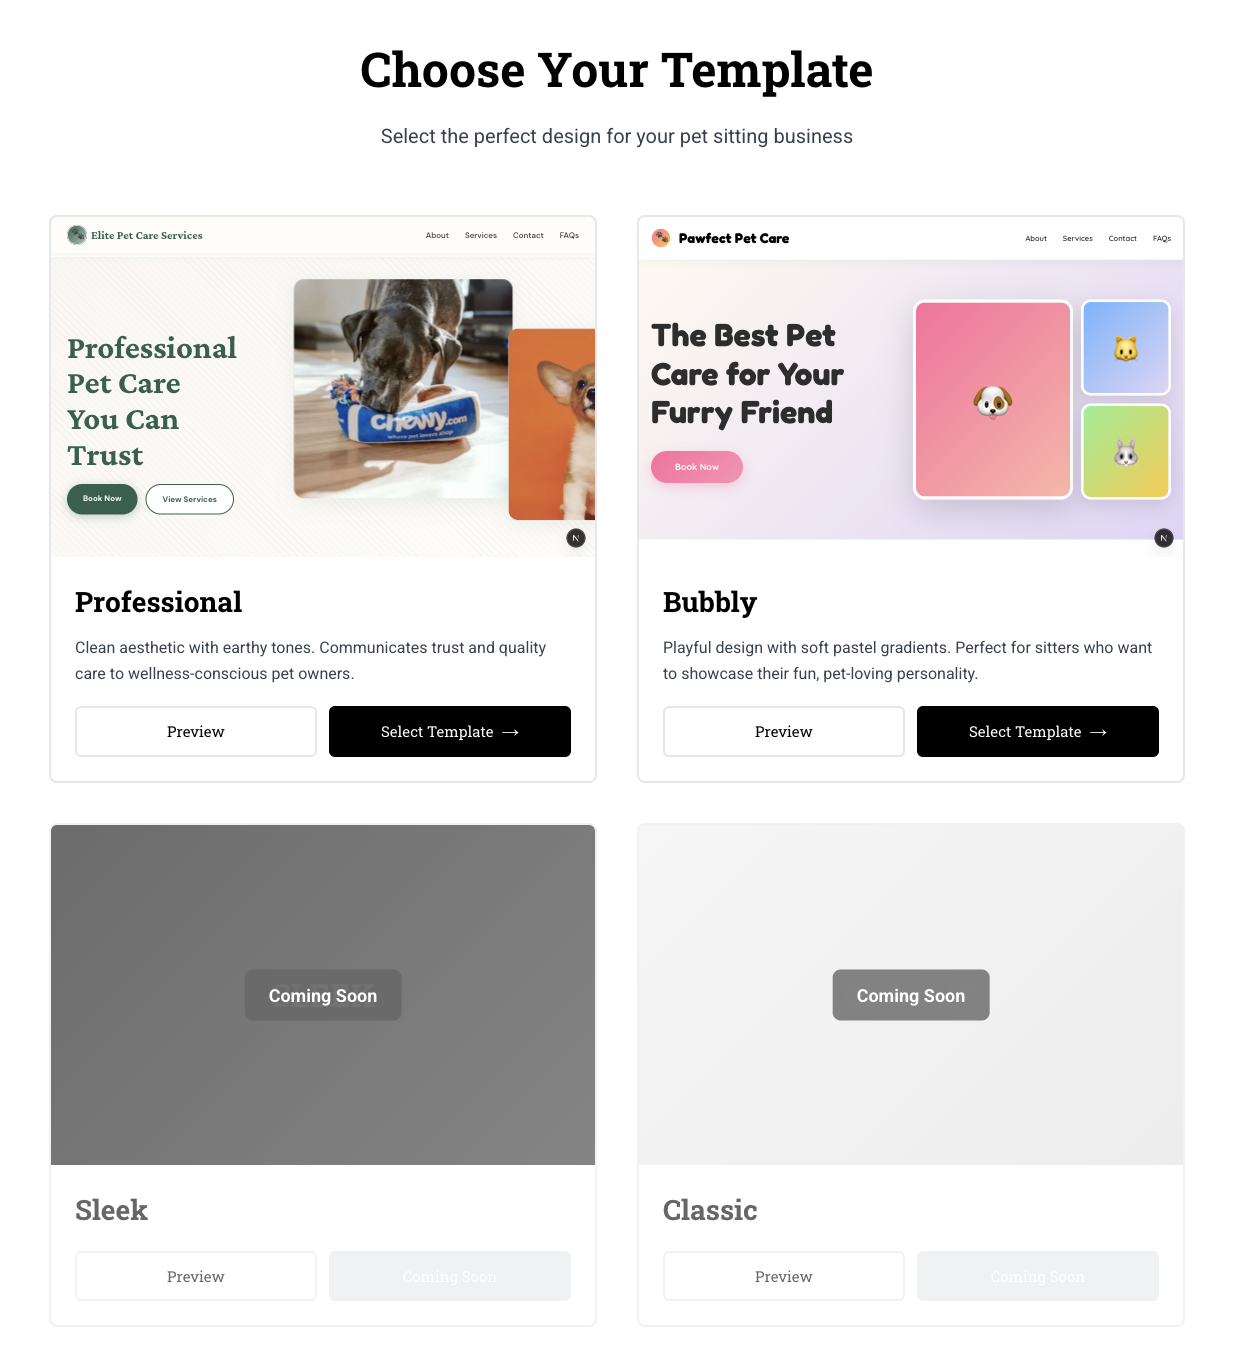
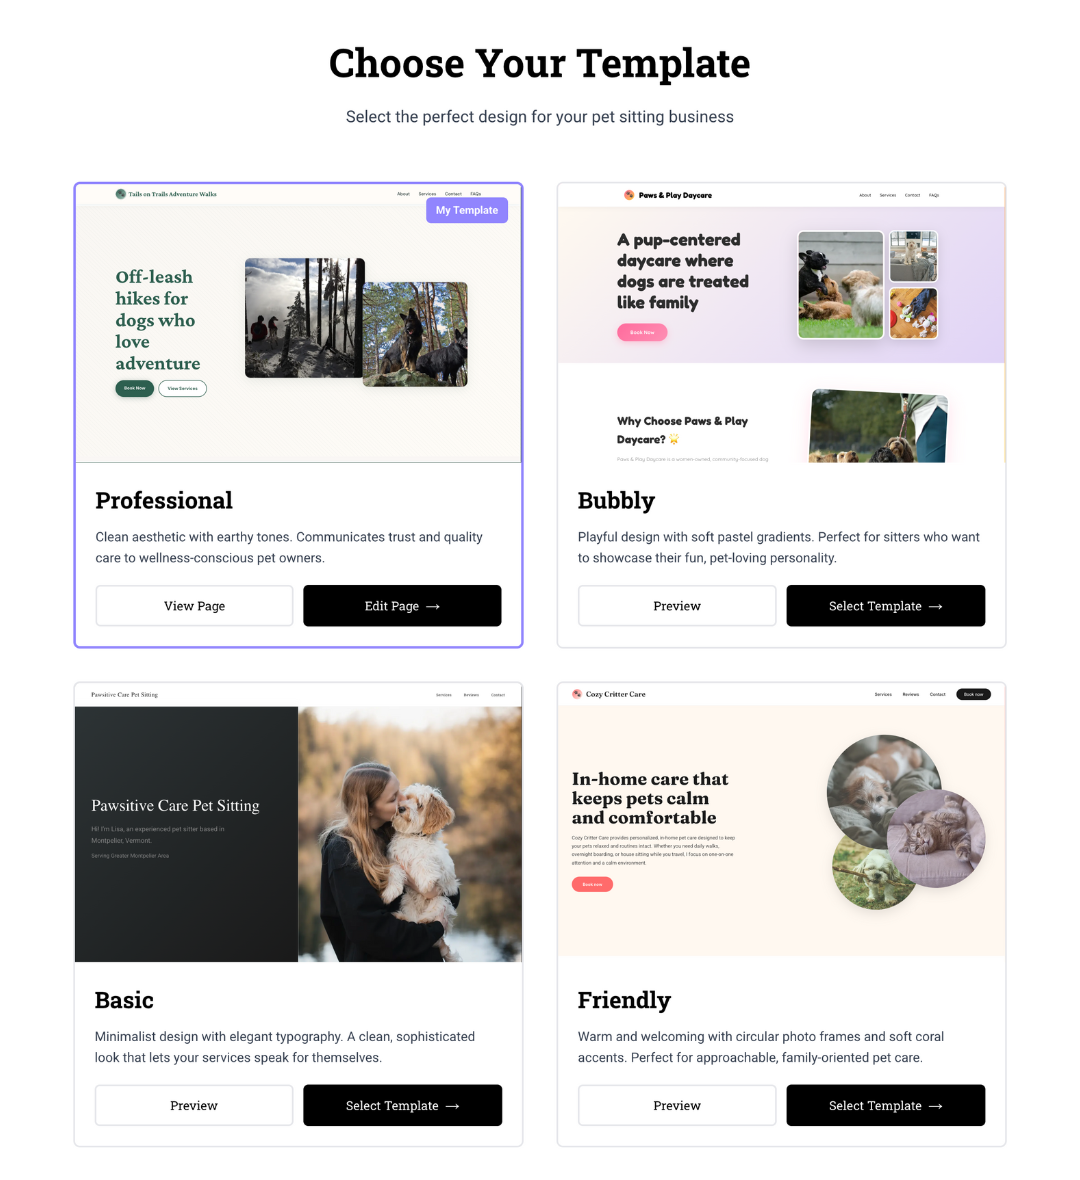
Update homepage

diff --git a/app/(main)/page.tsx b/app/(main)/page.tsx
@@ -106,7 +106,7 @@ export default function HomePage() {
               <div className="bg-white p-4 border-b border-gray-200">
                 <div className="rounded shadow-sm overflow-hidden">
                   <Image
-                    src="/bubbly-example.png"
+                    src="/pro-example.png"
                     alt="Published website"
                     width={400}
                     height={300}
